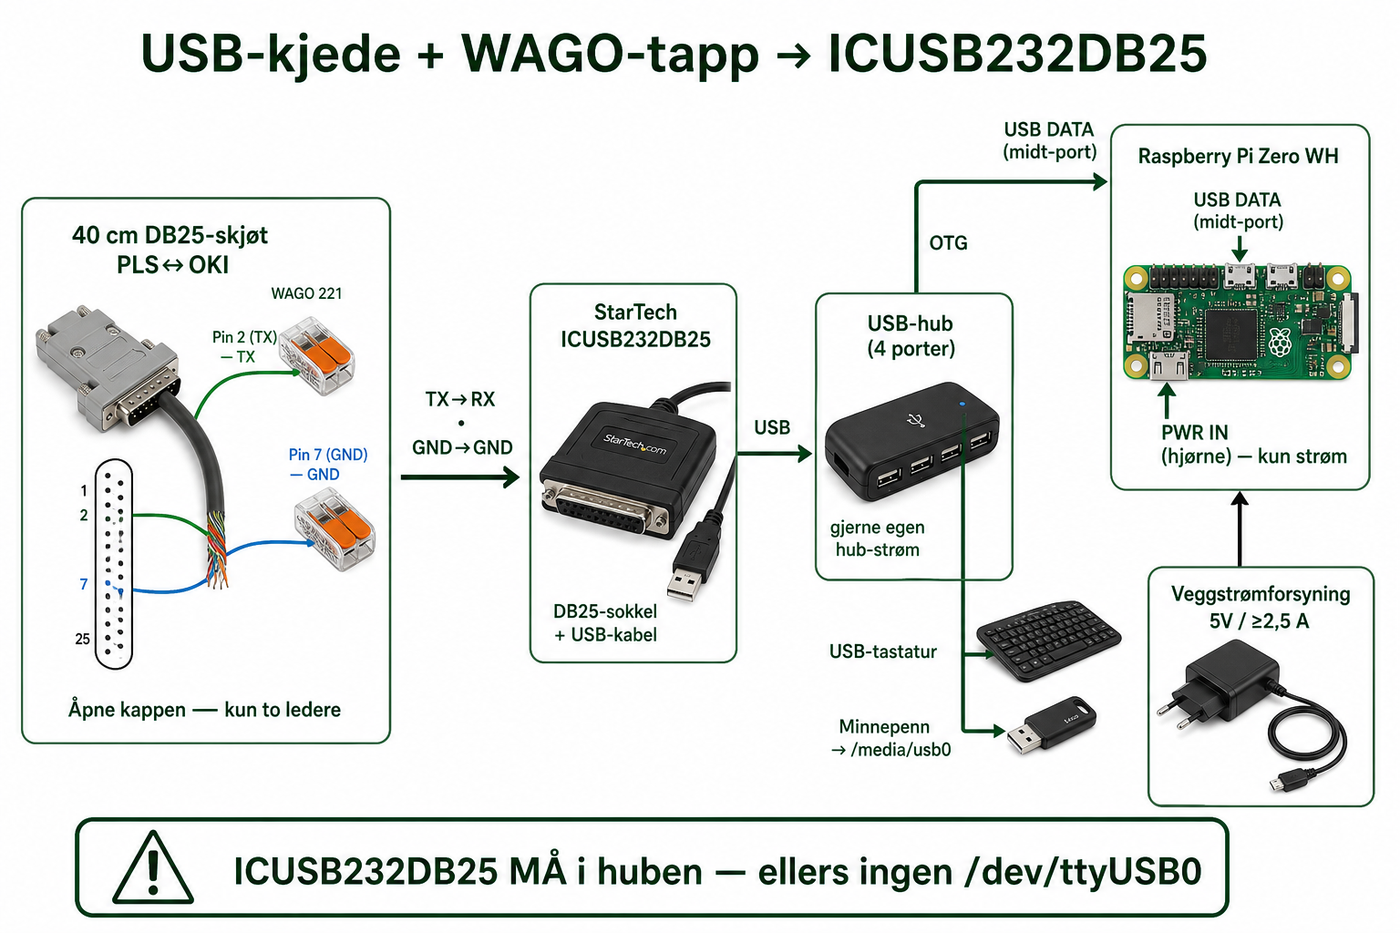
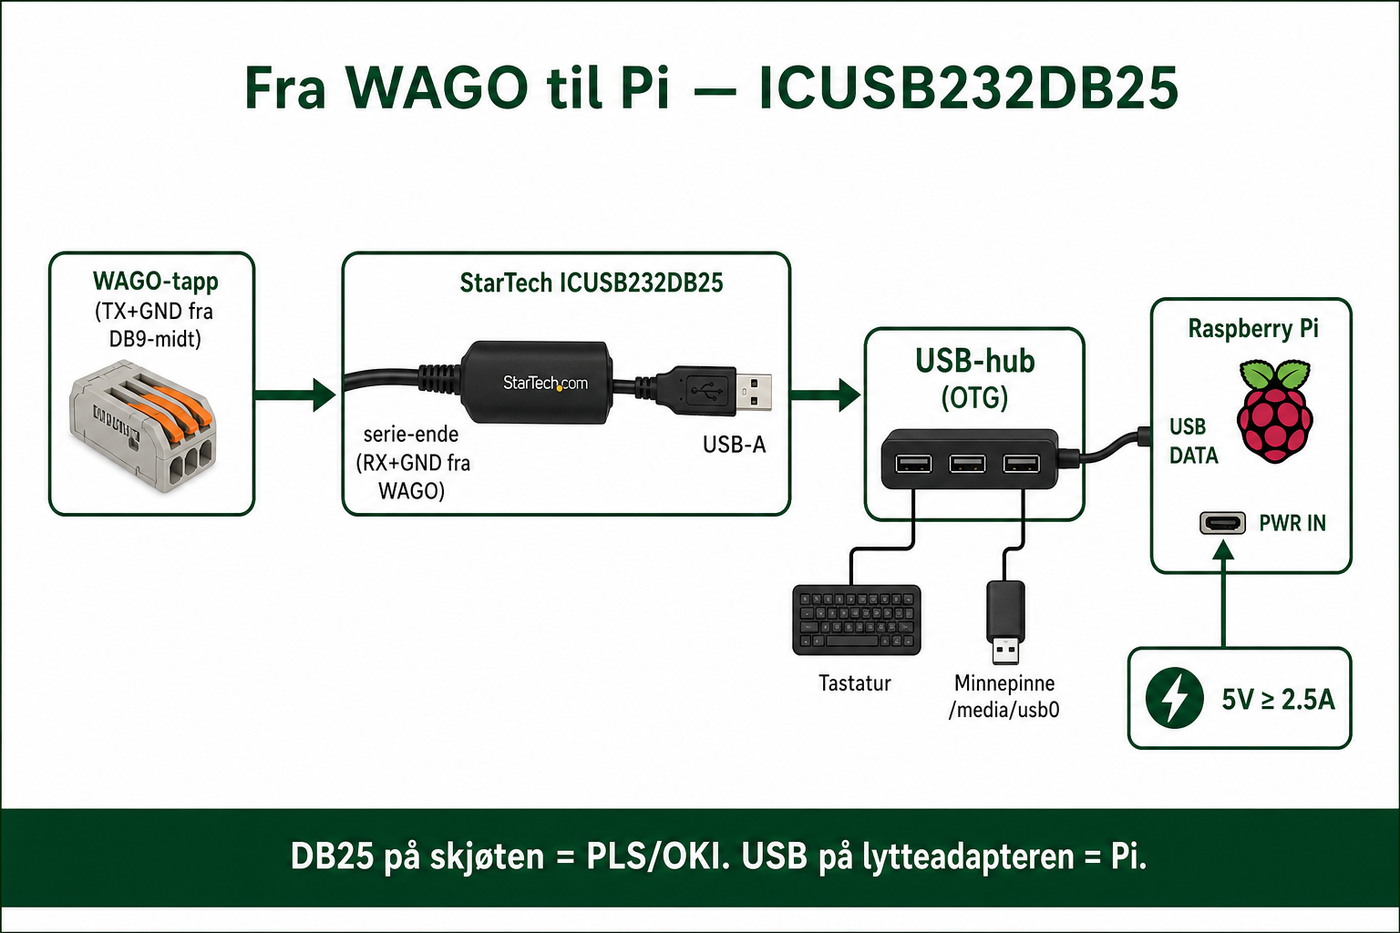
Tegn om tapp: DB25 kun PLS/OKI, USB på lytteadapteren
Skiller skjøt (DB25 inn i anlegg) fra ICUSB232DB25 (USB-ende til hub).
WAGO fra DB9-midt er egen grein — ikke inn i skriverkabelen.

diff --git a/docs/no/wiring.md b/docs/no/wiring.md
@@ -43,14 +43,17 @@ PLS-side ──┐
 Pi-gren ───┘
 ```
 
-## Videre til ICUSB232DB25
+## Videre til ICUSB232DB25 (egen grein — ikke inn i PLS/OKI)
+
+Skjøtens **DB25** går bare til PLS og skriver.  
+**ICUSB232DB25** er en egen lyttekabel: serie-ende tar imot WAGO-grenene, **USB-enden** går i huben til Pi.
 
 | Fra WAGO | Til StarTech ICUSB232DB25 |
 |----------|---------------------------|
-| TX (fra DB25 pin 2 / DB9 pin 3) | **RX** |
-| GND (fra DB25 pin 7 / DB9 pin 5) | **GND** |
+| TX (DB25 pin 2 / DB9 pin 3) | **RX** |
+| GND (DB25 pin 7 / DB9 pin 5) | **GND** |
 
-TX → RX — aldri TX til TX. USB-enden av StarTech i huben → `/dev/ttyUSB0`.
+TX → RX — aldri TX til TX. USB → hub → `/dev/ttyUSB0`.
 
 Fest skjøten i kabelrenna. La aldri WAGO henge løst.
 

diff --git a/docs/en/wiring.md b/docs/en/wiring.md
@@ -43,14 +43,17 @@ PLC side ──┐
 Pi branch ─┘
 ```
 
-## On to the ICUSB232DB25
+## On to the ICUSB232DB25 (separate branch — not into PLC/OKI)
+
+The extension’s **DB25** ends go only into the PLC and printer.  
+The **ICUSB232DB25** is a separate listen cable: serial end takes the WAGO pigtails; the **USB end** goes into the hub toward the Pi.
 
 | From WAGO | To StarTech ICUSB232DB25 |
 |-----------|--------------------------|
 | TX (DB25 pin 2 / DB9 pin 3) | **RX** |
 | GND (DB25 pin 7 / DB9 pin 5) | **GND** |
 
-TX → RX — never TX to TX. StarTech USB into the hub → `/dev/ttyUSB0`.
+TX → RX — never TX to TX. USB → hub → `/dev/ttyUSB0`.
 
 Secure the splice in the cable tray. Never leave a WAGO hanging loose.
 
